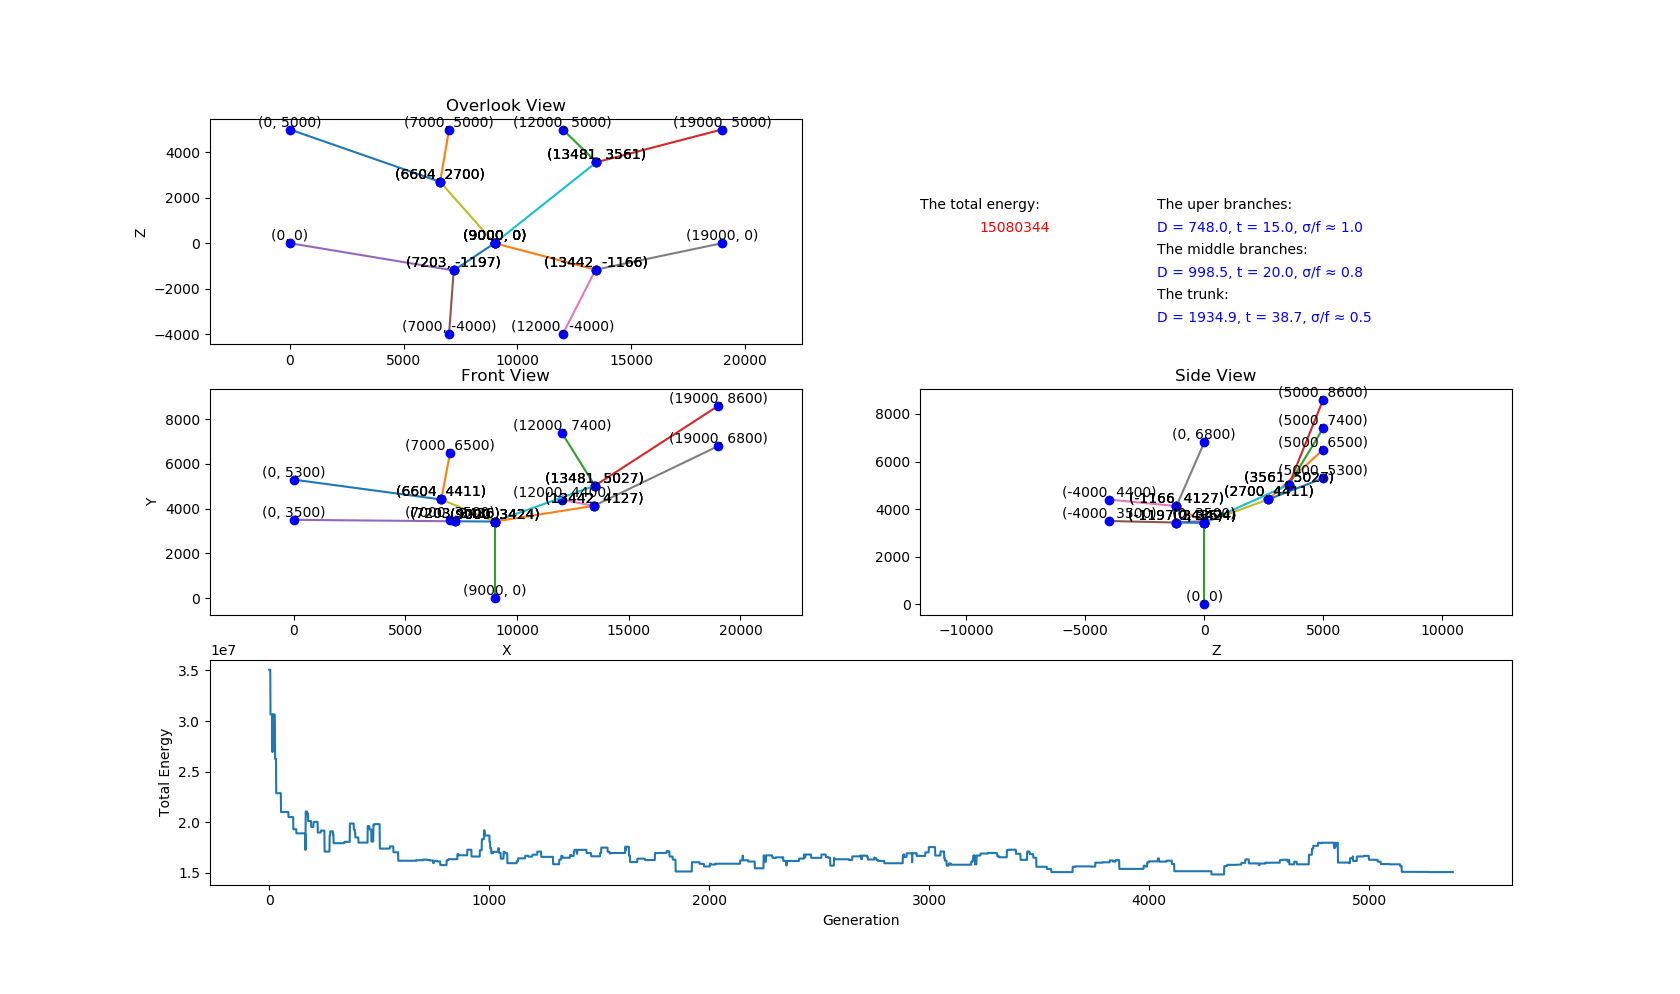
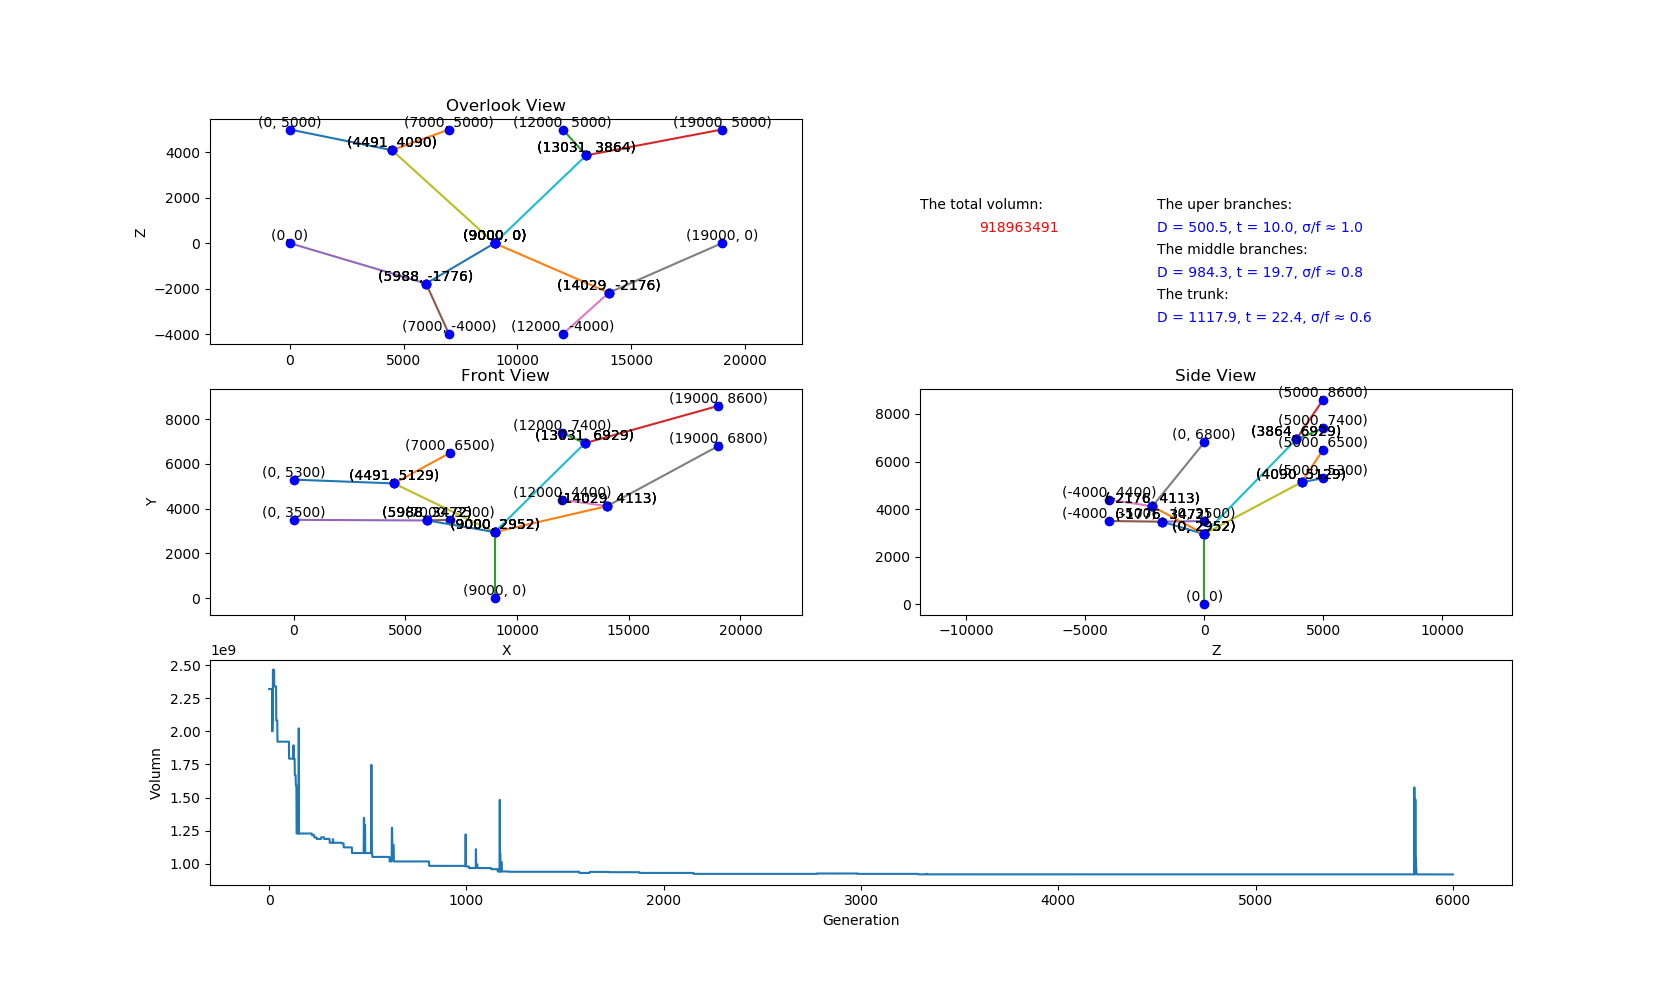
对于某实际问题的一个软件版本

diff --git a/8-4-1 -GA.py b/8-4-1 -GA.py
@@ -206,37 +206,13 @@ def chromosome_translator(individual, tmax, A, B, C, D, Aa, Ba, Ca, Da, PC):
 	ka = (xka, yka, zka)
 
 	t1 = coord(individual[13], 5, tmax[0])
-	t2 = coord(individual[14], 5, tmax[1])
-	t3 = coord(individual[15], 10, tmax[2])
+	t2 = coord(individual[14], 10, tmax[1])
+	t3 = coord(individual[15], 15, tmax[2])
 
 	return ([A, j], [B, j], [C, k], [D, k], [Aa, ja], [Ba, ja], [Ca, ka], [Da, ka], [j, i], [k, i], [ja, i], [ka, i], [i, PC]), (t1, t2, t3), (i, j, ja, k, ka)
 
 
-#sfitness points: the minimun value gets the highest point.
-'''
-def point1(value, TF, joints):
-	if TF is True:
-		geometry_TF = []
-		for i in joints[1:]:
-			geometry_TF.append((i[0]-joints[0][0])**2+\
-								(i[2]-joints[0][2])**2 <= \
-						((i[1]-joints[0][1])*np.tan(120*np.pi/360))**2)
-		if all(geometry_TF):
-			add_pt = 50
-		else:
-			add_pt = 0
-		return 19-9*value/5e7+add_pt
-	else:
-		return 0
-
-
-def point2(value, TF, joints):
-	if TF is True:
-		return 19-9*value/5e7
-	else:
-		return 0
-'''		
-		
+#sfitness points: the minimun value gets the highest point.	
 def point1(rou, v, TF):
 	'''Fitness based on total volumns!'''
 	if TF is True:
